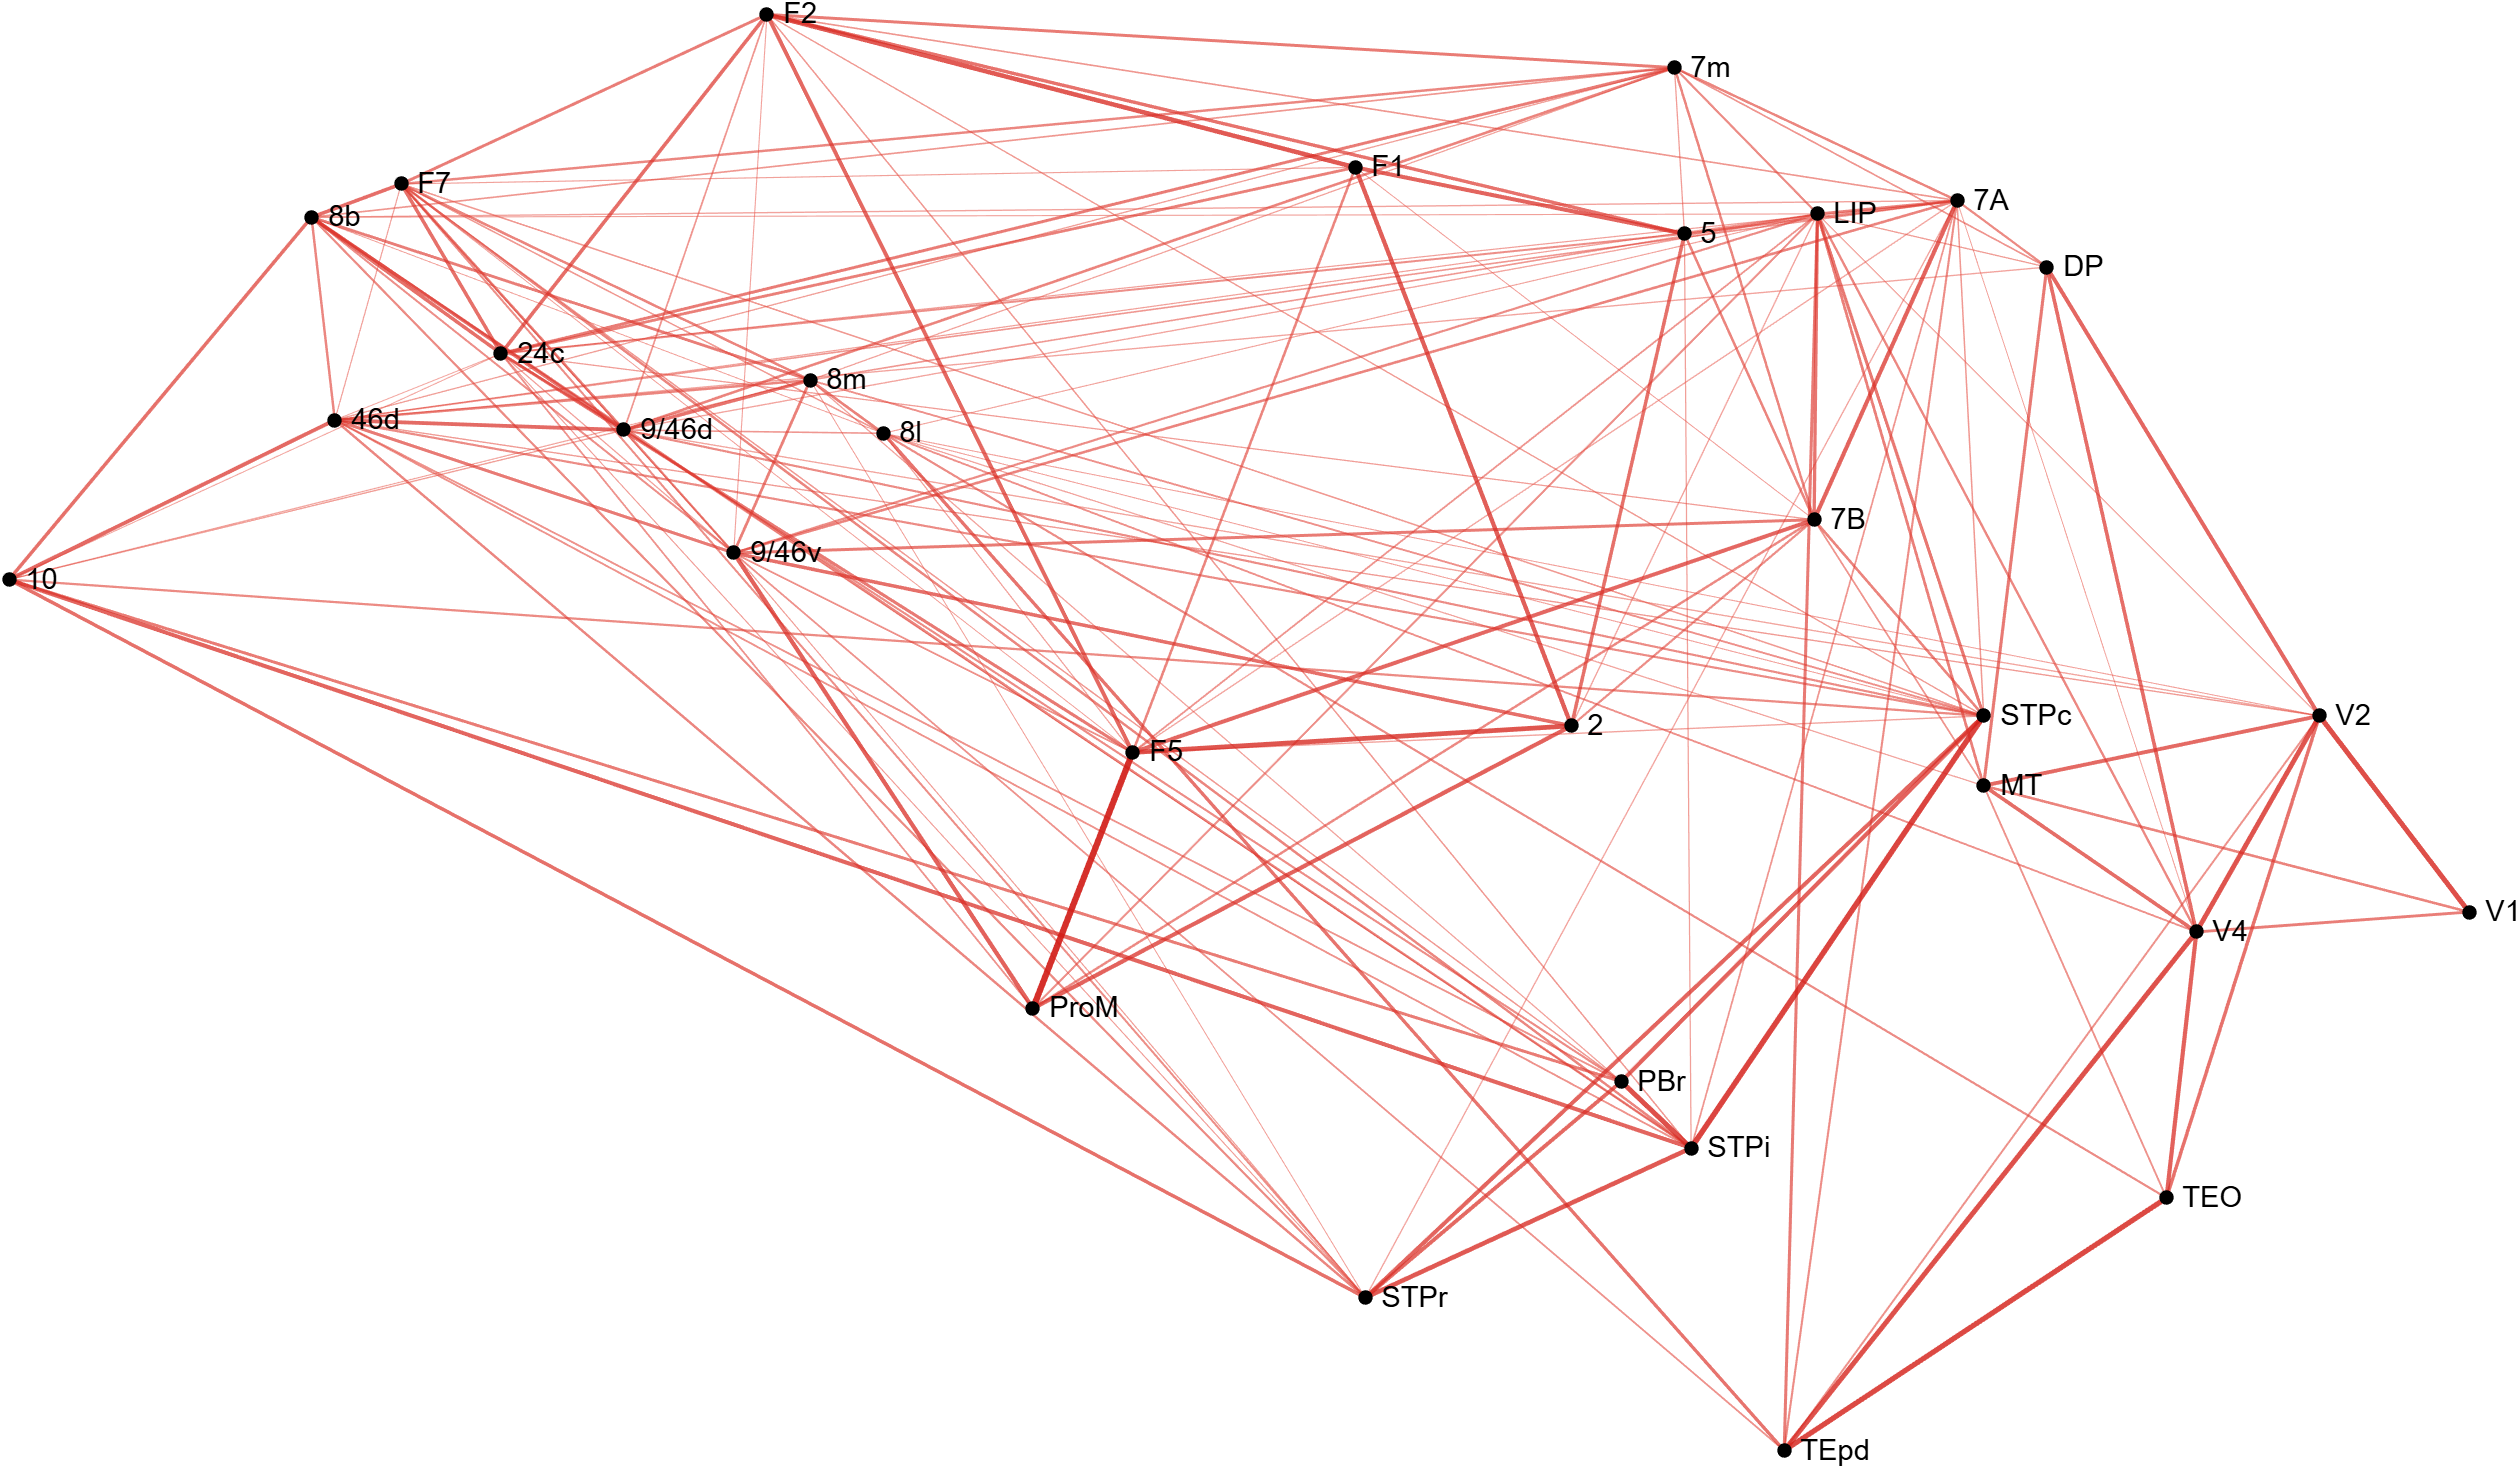
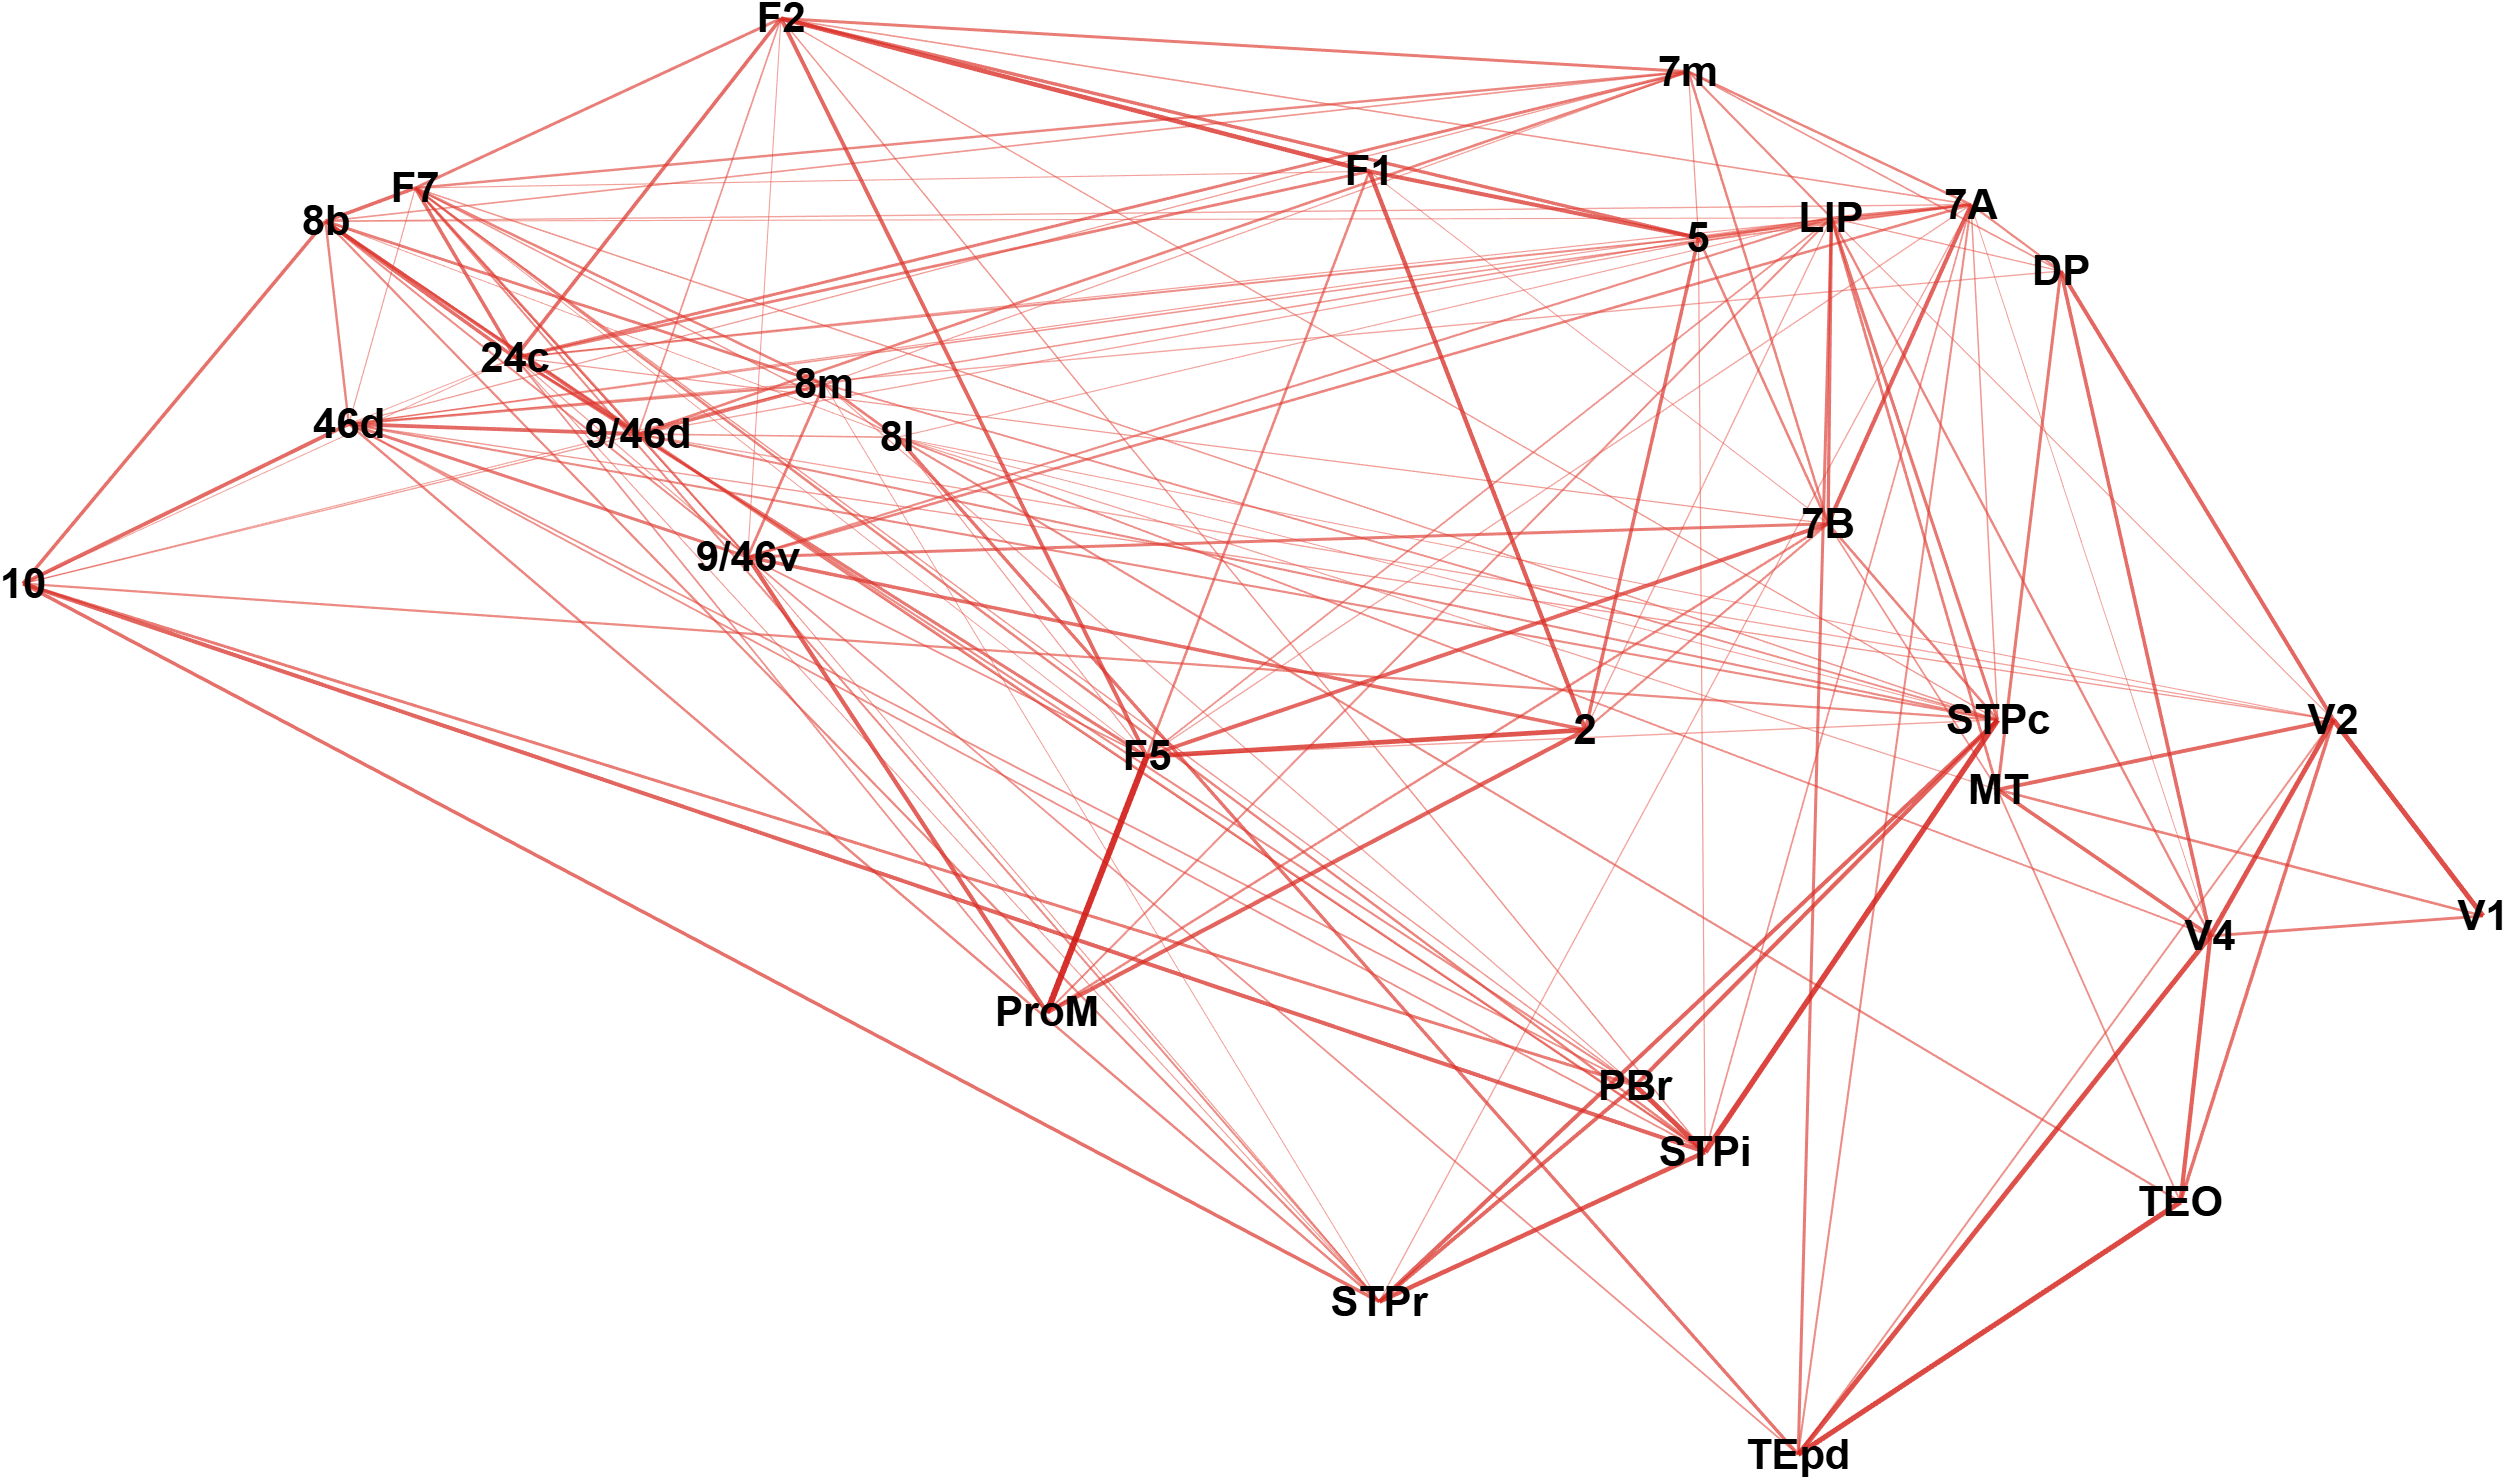
brain connections fixes

diff --git a/WM Model/Generators/brain3d_conn.m b/WM Model/Generators/brain3d_conn.m
@@ -1,19 +1,20 @@
 function [] = brain3d_conn(conn, out_filename, opts)
 % conn(i,j) = weight from area j to area i, in the model's area order.
-% opts (all optional): .keep_frac .log_scale .lw_range .view .node_size .font_size
+% opts (all optional): .keep_frac .log_scale .lw_range .view .roll
+%                      .node_size (marker area, pt^2) .font_size .cam_push .pin_file
 
 if nargin < 2 || isempty(out_filename)
-    out_filename = sprintf('Fig/3dBrain/brain3d_conn_%s.svg', datestr(now,'mmdd_HHMMSS'));
+    out_filename = sprintf('Fig/3dBrain/brain3d_conn_%s.png', datestr(now,'mmdd_HHMMSS'));
 end
 if nargin < 3, opts = struct(); end
 
 def = struct('keep_frac',0.5, 'log_scale',true, 'lw_range',[0.2 1.5], ...
-             'view',[-125 5], 'roll',-1.8580, 'node_size',12, 'font_size',7, 'pin_file','node_pos.mat');
+             'view',[-125 5], 'roll',-1.8580, 'node_size',300, 'font_size',10, ...
+             'cam_push',15, 'pin_file','node_pos.mat');
 fn = fieldnames(def);
 for k = 1:numel(fn)
     if ~isfield(opts, fn{k}) || isempty(opts.(fn{k})), opts.(fn{k}) = def.(fn{k}); end
 end
-
 
 converter = [28 25 20 90 36 74 88 71 45 21 63 50 86 72 52 75 83 51 12 16 78 84 93 69 41 27 95 89 10 77];
 area_list = {'V1','V2','V4','DP','MT','8m','5','8l','2',...
@@ -23,13 +24,13 @@ area_list = {'V1','V2','V4','DP','MT','8m','5','8l','2',...
 Nareas = numel(converter);
 
 fig = figure('visible','off','Color','w','Position',[100 100 1000 600]);
-ax = axes('Parent',fig); hold(ax,'on');
+ax = axes('Parent',fig); set(ax,'Color','w'); hold(ax,'on');
 
 %% Node positions
 if ~isempty(opts.pin_file)
-    S = load(opts.pin_file);                                   % pixel coords from the screenshot
-    areaCentroids = [S.pos(:,1), -S.pos(:,2), zeros(Nareas,1)];  % flip y: image y points down
-    opts.view = [0 90]; opts.roll = 0;                         % flat top-down view of the 2D layout
+    S = load(opts.pin_file);
+    areaCentroids = [S.pos(:,1), -S.pos(:,2), zeros(Nareas,1)];
+    opts.view = [0 90]; opts.roll = 0;
 else
     load('C:\Users\david\OneDrive\Documenti\GitHub\Mathematical Models\WM Model\data\scalablebrainatlasdata.mat')
     areaCentroids = nan(Nareas,3);
@@ -53,7 +54,6 @@ if opts.log_scale, wv = log10(w); else, wv = w; end
 wn = (wv - min(wv)) / max(eps, (max(wv) - min(wv)));
 lw = opts.lw_range(1) + wn * diff(opts.lw_range);
 
-% weak = slightly lighter/transparent, strong = saturated red
 cWeak   = [0.90 0.30 0.25];
 cStrong = [0.82 0.10 0.08];
 for e = 1:numel(w)
@@ -63,30 +63,43 @@ for e = 1:numel(w)
           'Color', [col, 0.5 + 0.4*wn(e)]);
 end
 
-%% Nodes + labels
-scatter3(ax, areaCentroids(:,1), areaCentroids(:,2), areaCentroids(:,3), ...
-         opts.node_size, 'k', 'filled');
+%% View (set before computing camera direction)
+set(fig,'renderer','opengl','Color','w');
+daspect(ax,[1 1 1]);
+axis(ax,'off'); axis(ax,'image');
+view(ax, opts.view(1), opts.view(2));
+camroll(ax, opts.roll);
+set(ax,'Projection','orthographic');
+
+
+%% Labels: translucent white backing circle + bold text, pushed toward camera
 for i = 1:Nareas
-    text(ax, areaCentroids(i,1), areaCentroids(i,2), areaCentroids(i,3), ...
-         ['  ' area_list{i}], 'FontSize', opts.font_size, 'Color','k', ...
-         'FontWeight','normal', 'FontName','Arial', 'Clipping','off');
+    if any(isnan(areaCentroids(i,:))), continue; end
+    vOut = areaCentroids(i,:);
+
+    text(ax, vOut(1), vOut(2), vOut(3), area_list{i}, ...
+         'FontSize', opts.font_size, ...
+         'Color', 'black', ...
+         'FontWeight', 'bold', ...
+         'HorizontalAlignment', 'center', ...
+         'VerticalAlignment', 'middle', ...
+         'Clipping', 'off');
 end
 
 set(ax,'SortMethod','childorder');
-
-%% View + export
-daspect(ax,[1 1 1]);
-axis(ax,'off','image');
-view(ax, opts.view(1), opts.view(2));
-camroll(ax, opts.roll);
-
-set(ax,'Projection','orthographic');   % gives the slight depth of the screenshot
-set(fig,'renderer','opengl','Color','w');
 drawnow;
-exportgraphics(fig, out_filename, 'Resolution', 300, 'BackgroundColor','w');
 
-[img,~,~] = imread(out_filename);
-mask  = img(:,:,1)==255 & img(:,:,2)==255 & img(:,:,3)==255;
-imwrite(img, out_filename, 'Alpha', uint8(~mask)*255);
+%% Export (same as brain3d)
+% exportgraphics(fig, out_filename, 'Resolution', 300, 'BackgroundColor', 'w');
+% [img, ~, ~] = imread(out_filename);
+% mask = img(:,:,1) == 255 & img(:,:,2) == 255 & img(:,:,3) == 255;
+% imwrite(img, out_filename, 'Alpha', uint8(~mask) * 255);
+% close(fig);
+%% Export (opaque white background)
+exportgraphics(fig, out_filename, 'Resolution', 300, 'BackgroundColor', 'w');
+%% Save editable .fig (same name as the PNG)
+[p,n,~] = fileparts(out_filename);
+set(fig, 'CreateFcn', 'set(gcbo,''Visible'',''on'')');  % figure was created invisible; make it open visible
+savefig(fig, fullfile(p, [n '.fig']));
 close(fig);
 end
